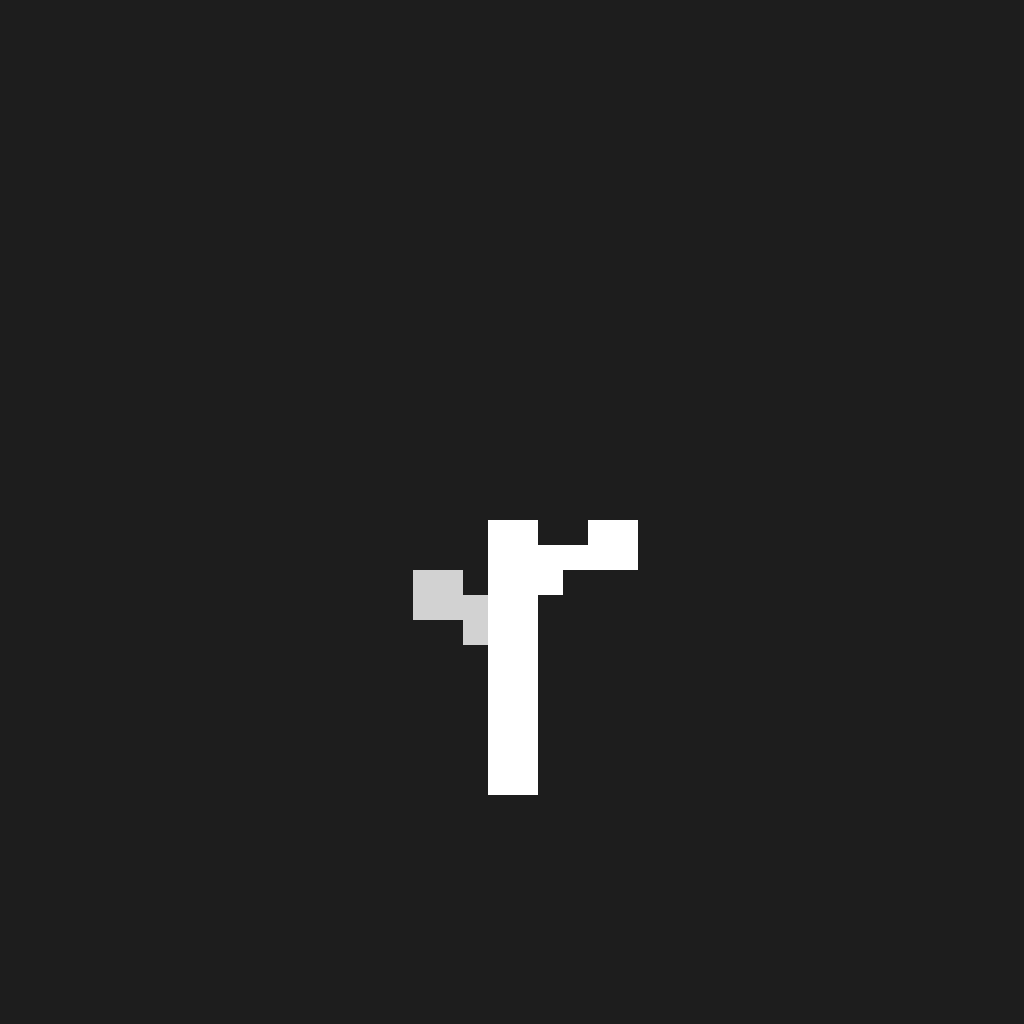
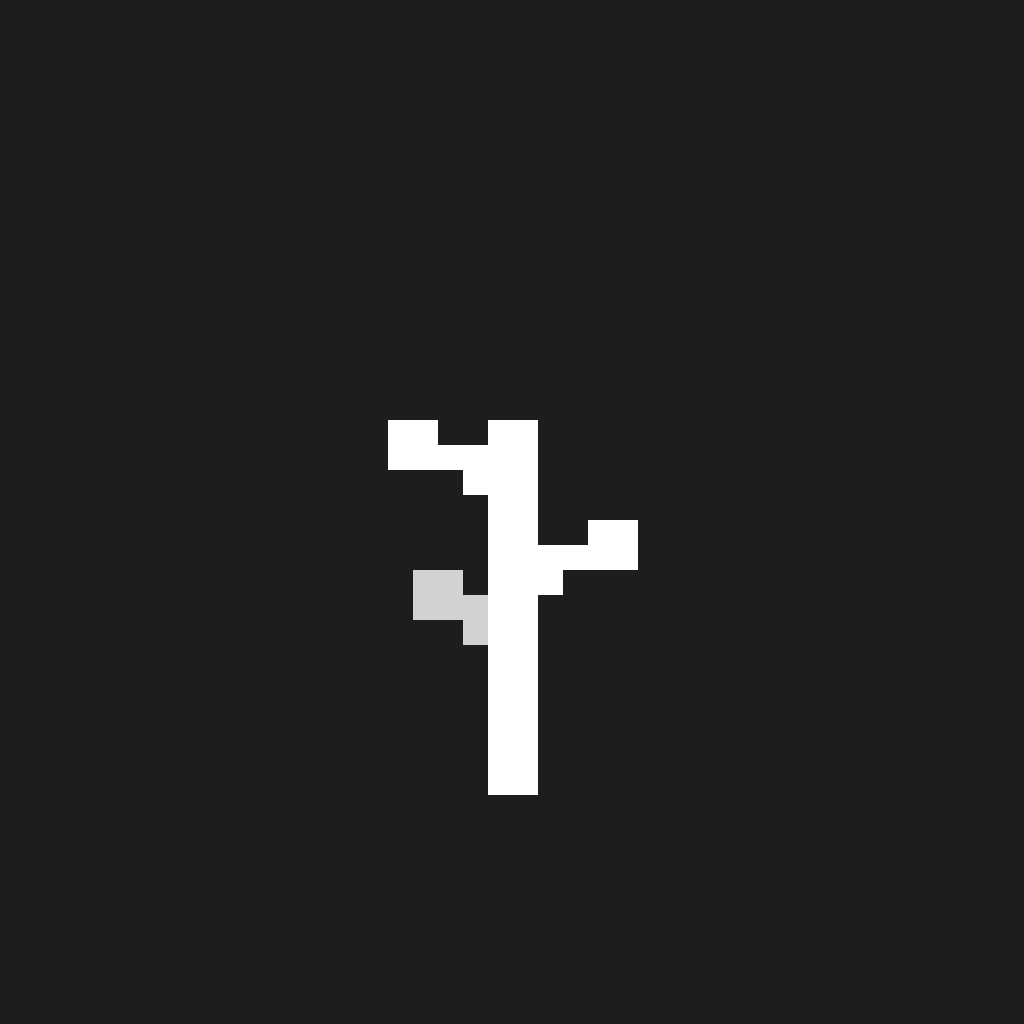
Version 0.3.0

Changed region(s): [[0.375, 0.4062, 0.5312, 0.5312]]

diff --git a/CHANGELOG.md b/CHANGELOG.md
@@ -12,3 +12,10 @@
 - Added a new, unseen variant of these trees pixel, as well as their distorted forms
 - Beta release of the `index.html`
 - Version 0.2.1: Minor patch with naming convention, and site filters
+- Version 0.2.2: Patched Dawn assets, and added new variant to the hidden trees: young.
+
+## Version 0.3.0: Story Trees and Field Day
+
+- Added a bunch of new trees, story and field day trees
+- Field day trees had a minor redesign to keep branding consistent
+- The story trees are group by chapter, not episode

diff --git a/README.md b/README.md
@@ -22,4 +22,4 @@ This repository is maintained by Arjun Yuvaraj, the founder of gr0ve. For questi
 
 ---
 
-_This is arb0r, Version 0.2.0, the collection of hand-grown assets, and a part of the gr0ve family._
+_This is arb0r, Version 0.3.0, the collection of hand-grown assets, and part of the gr0ve family._
